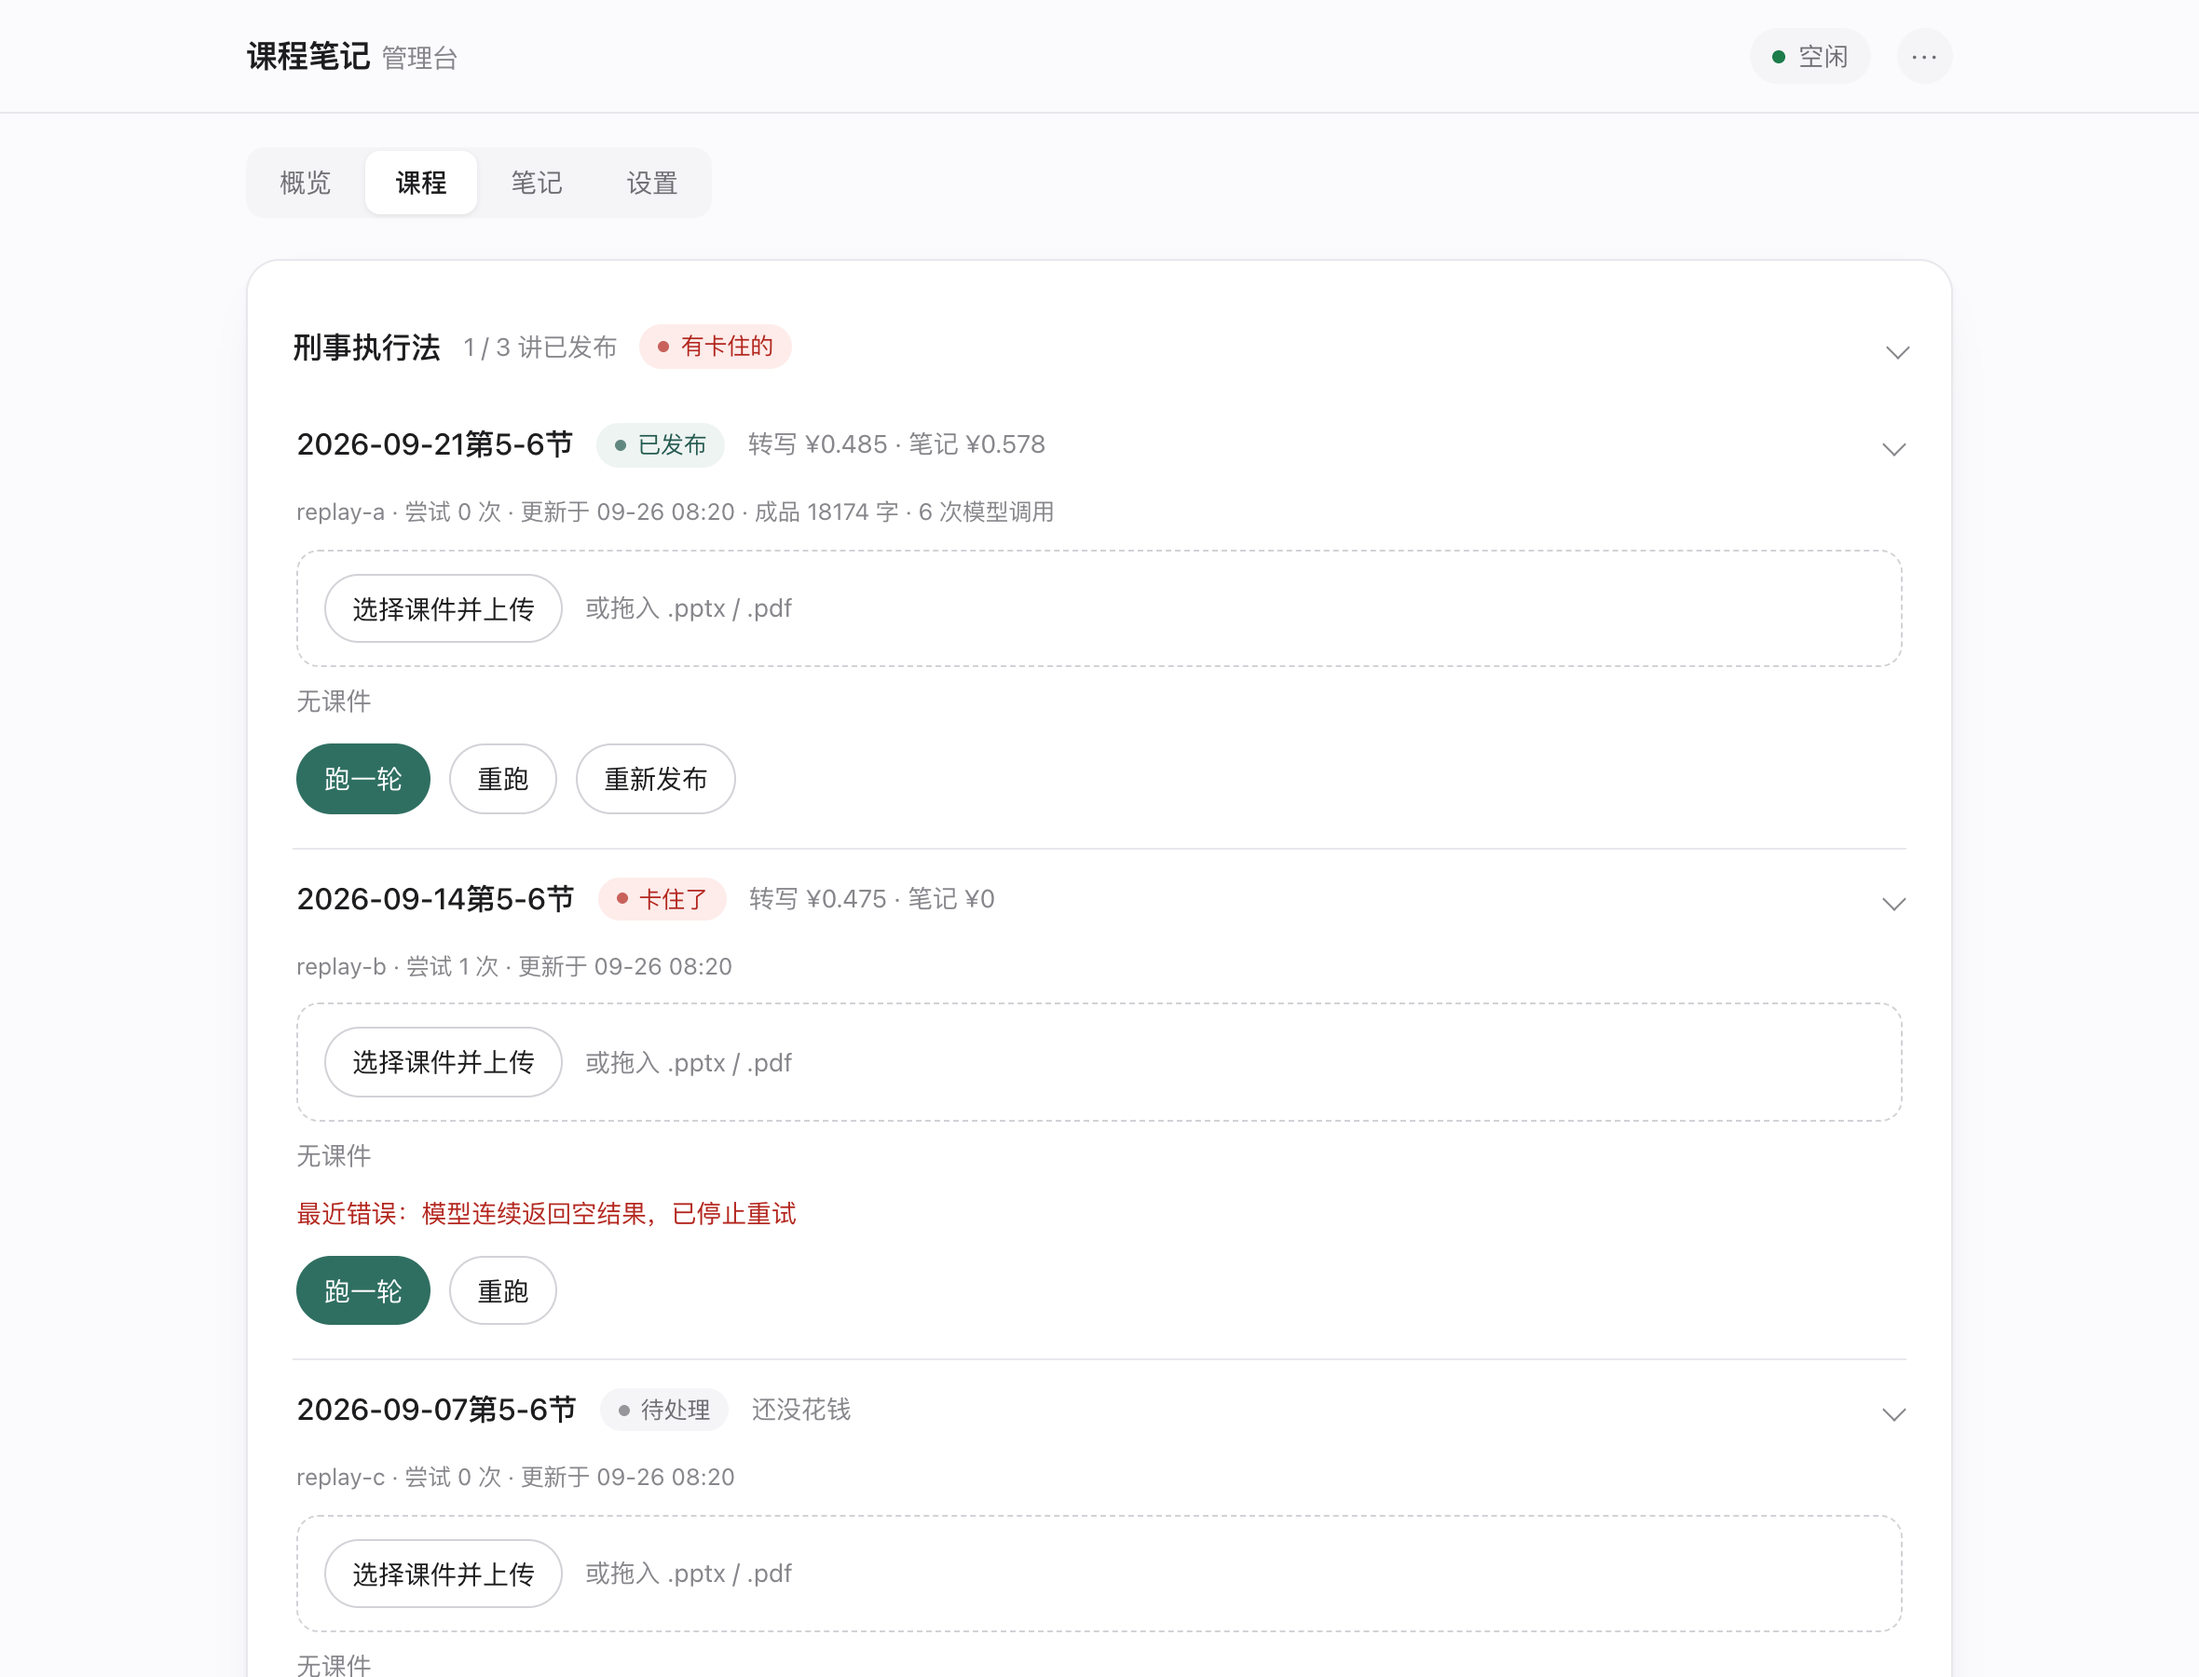
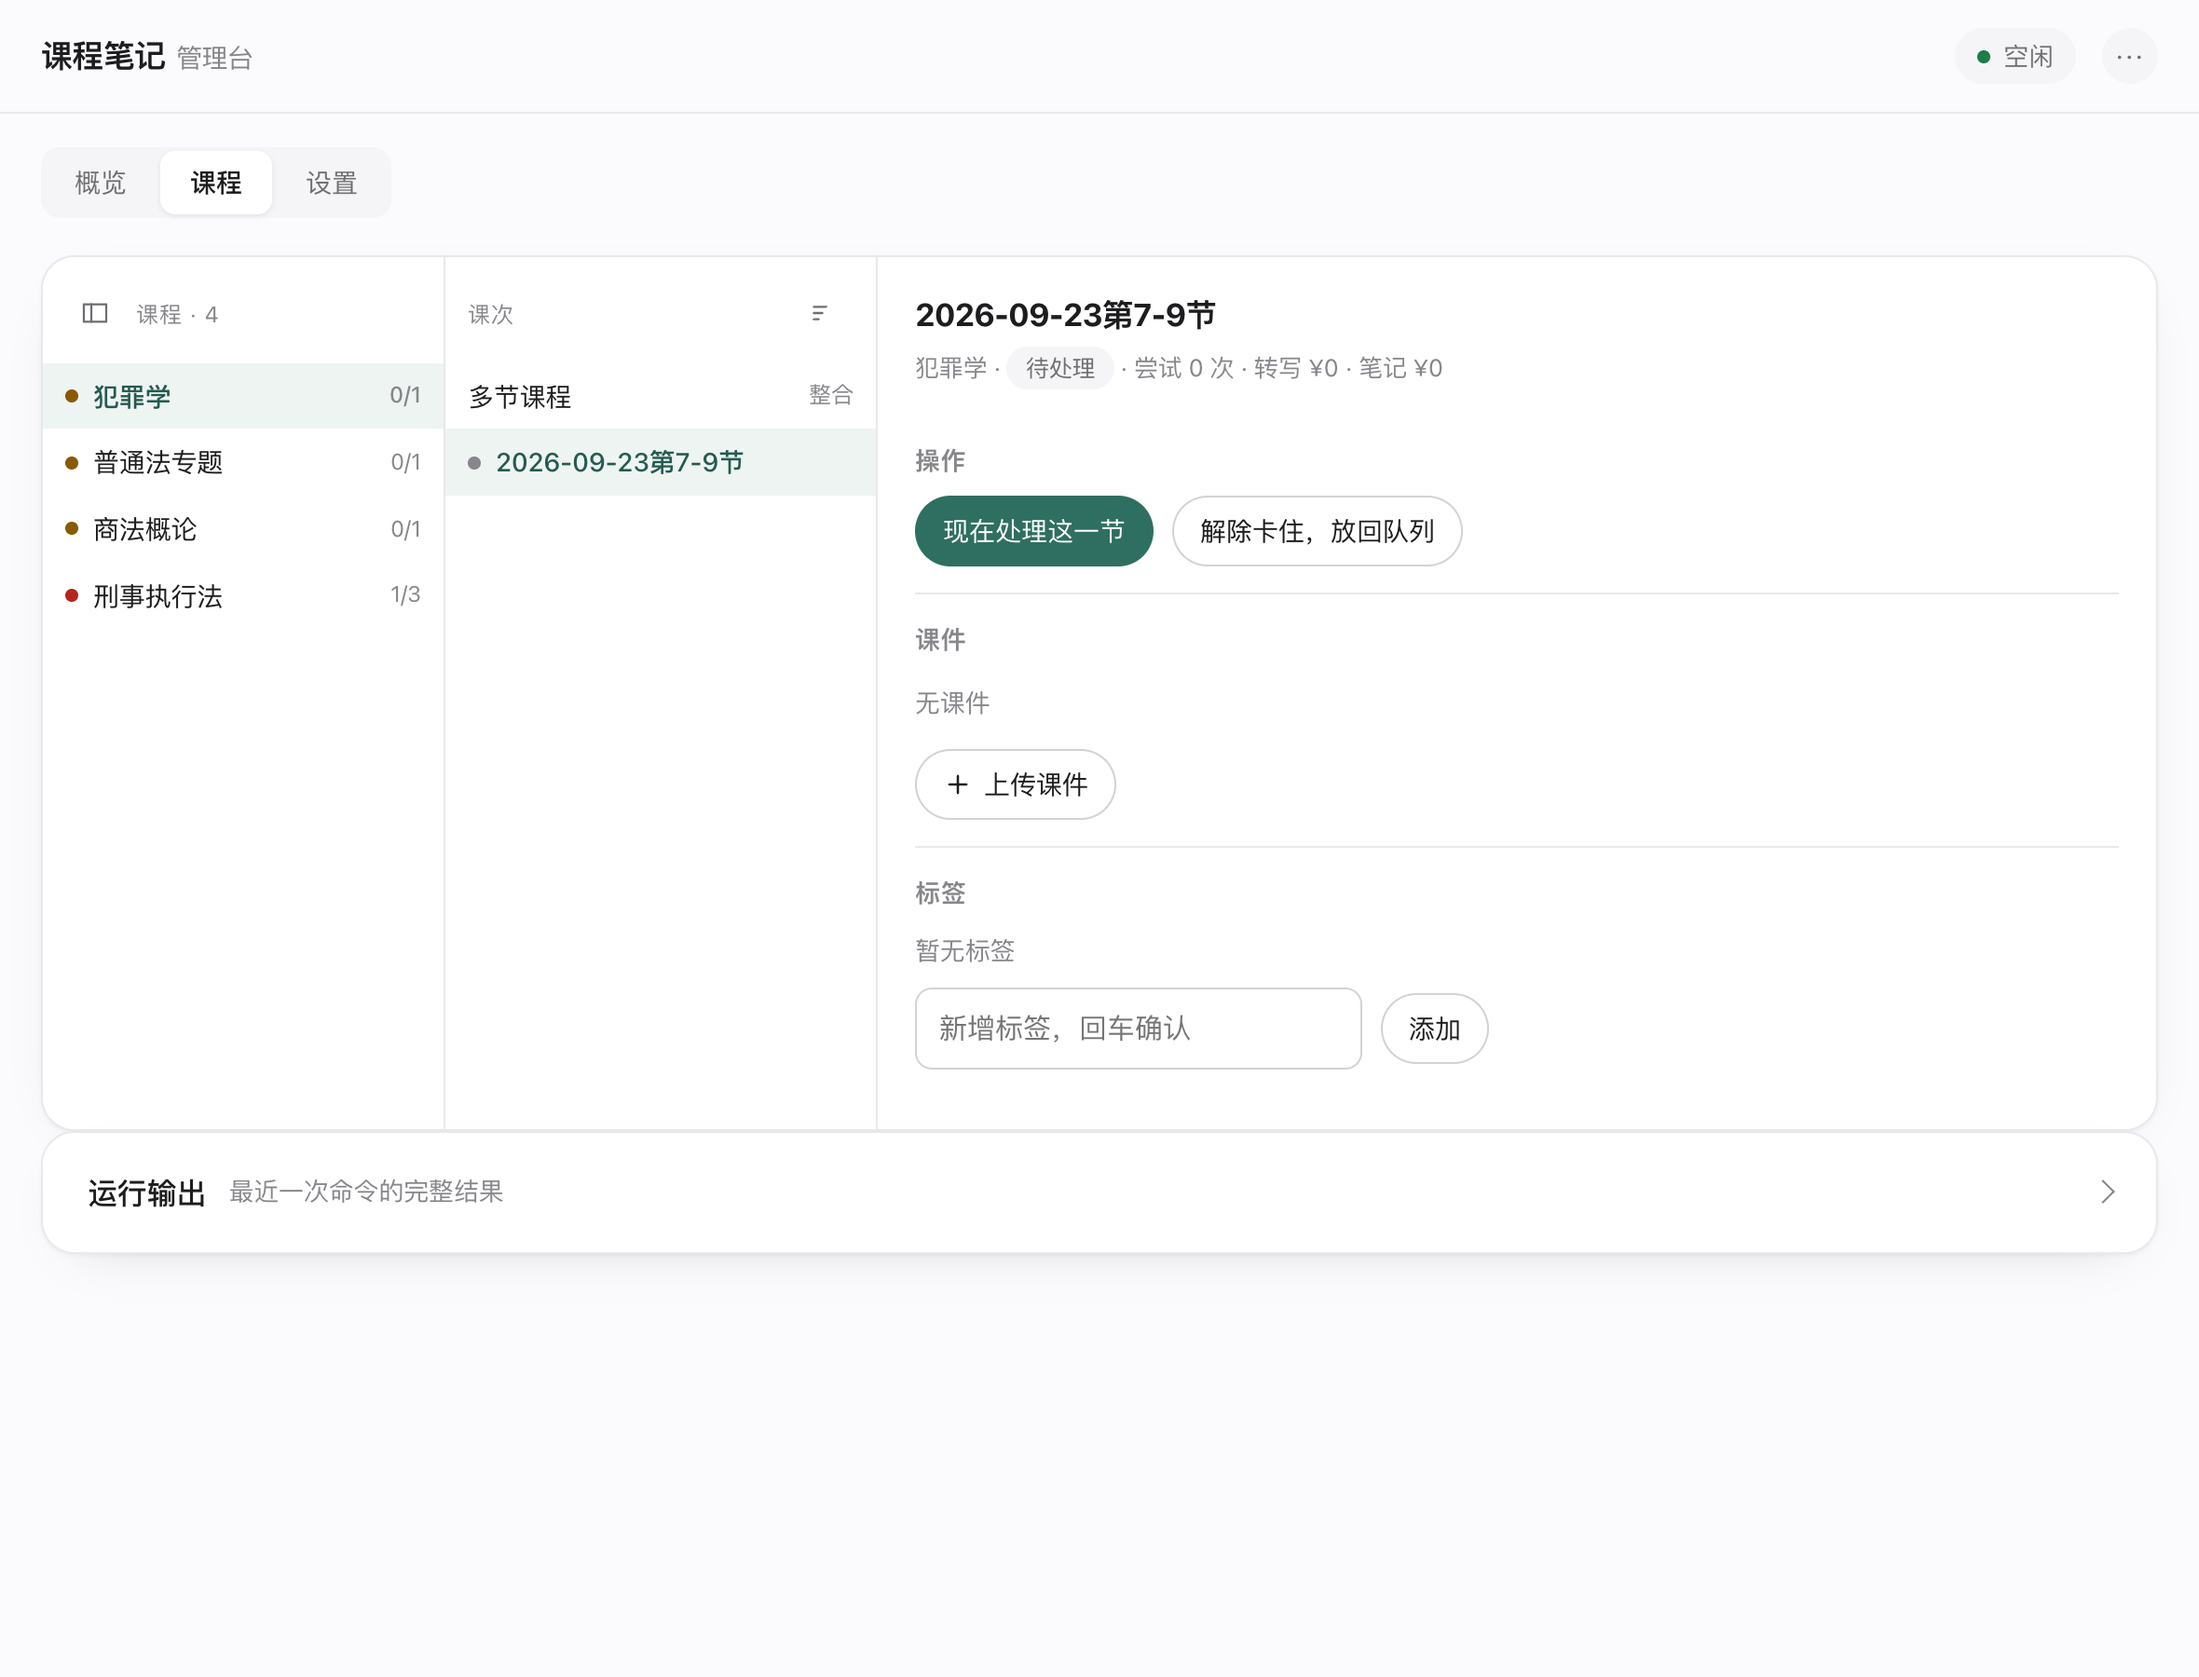
docs: 记录管理台第三版（访达分栏 + 标签 + 存储占用 + 课件预览）

diff --git a/docs/09-前端设计.md b/docs/09-前端设计.md
@@ -255,4 +255,34 @@ UI 组件统一走一套 CSS 变量（`--bg / --ink / --line / --accent / --radi
 `context_token`，而插件的**主动推送**路径不会去取它——接口返回 messageId、微信端收不到。
 补丁让主动推送回退使用已存的 token；界面上再显示会话新鲜度，避免「账本一片绿、手机没有消息」。
 
-截图：`npm run shots` 用假数据把四个区、两种宽度各截一张，放在 `docs/shots/`。
+截图：`npm run shots` 用假数据把各页、两种宽度各截一张，放在 `docs/shots/`。
+
+## 12. 管理台第三版（2026-09-27）：课程区改成访达分栏
+
+用户的判断很直接：「后续如果课程内容比较多，像现在这样点击纵排展开，管理维护起来会非常麻烦」，
+要求参考访达的 `Command + 3` 分栏视图。于是课程区从竖排折叠整块换成**横向分栏**：
+
+```
+┌ 筛选 ┬ 课程 ── ┬ 课次 ── ┬ 详情 ──────────────────────────┐
+│ 2026 │ 商法概论 │ 多节课程 │ 阶段 · 花费 · 尝试次数          │
+│ 研二上│ 刑事执行法│ 09-20   │ 现在处理这一节 / 放回队列 / 重新发布 │
+│ 重点课│ …        │ 09-13   │ 课件（上传 · 点击预览每页文字）    │
+│      │          │         │ 标签（手动增删）                 │
+│      │          │         │ 笔记（逐模块重写）               │
+└──────┴──────────┴─────────┴──────────────────────────────┘
+```
+
+| 要求 | 做法 |
+|---|---|
+| 筛选栏可收起，收起后右侧向左补齐 | 栅格列宽从 176px 变 0，**不能 display:none**——一退出栅格，后面的列会各自顶到前一格上，课程列落进 0 宽那格，按钮看得见却点不动（审计里为这条立了桩） |
+| 标签手动打、可多个、可拖动排序、存服务器 | `~/.course-worker/tags.json`（0600）+ `GET/PUT /api/admin/tags`；未登记过的标签自动进顺序表 |
+| 课次排序低调 | 课次栏顶部一个只有图标的排序按钮（正序/倒序） |
+| 多文件上传 | 一次可选多个 pptx / pdf / docx / xlsx，走分片上传；上传完点文件在面板内预览**解析出的每页文字** |
+| 三个按钮语义重叠 | 改成「现在处理这一节」（立刻跑）/「解除卡住，放回队列」（只重置，不跑）/「重新发布」（只发布） |
+| 单课配置别太啰嗦 | 去掉了重点星级与学习目标；课件校正术语成为默认行为 |
+| 笔记区并进课程 | 逐模块重写搬进课次详情；通知记录搬进设置 |
+| 多节课程 | 课次栏第一项是「多节课程」，点开是六类整合材料的入口（生成逻辑下一步实现） |
+| 存了些什么 | 设置 → 存储占用：按类别给数字 + 条状图，不贴文件名 |
+
+课件解析这轮扩到 **PDF / Word / Excel**：pptx 与 Office 新格式本来就 zip + XML，用标准库；
+PDF 交给系统的 `pdftotext`（`poppler-utils`），比自己写解析器靠谱。
